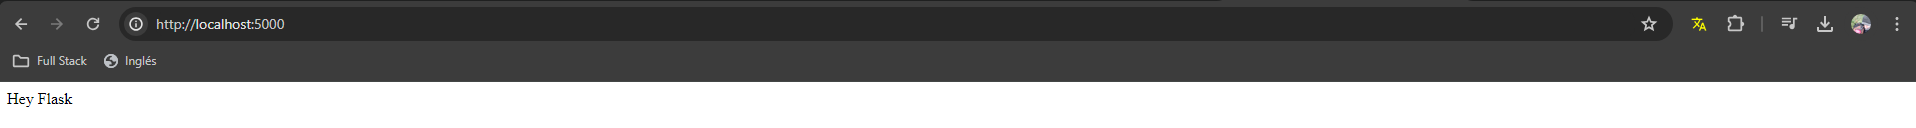
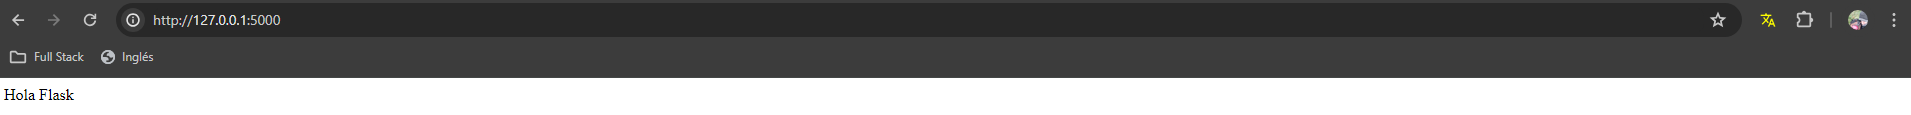
Mielma

diff --git a/Python/Api/03_Configuración_Flask.html b/Python/Api/03_Configuración_Flask.html
@@ -30,12 +30,15 @@
 <p>Crear la carpeta donde van a ir los proyectos
 <br>En el terminal
 <br>pipenv --python 3.7 (Crea Pipfile)
+<br>Courtesy Notice: Pipenv found itself running within a virtual environment, so it will automatically use that environment, instead of creating its own for any project. You can set PIPENV_IGNORE_VIRTUALENVS=1 to force pipenv to ignore that environment and create its own instead. You can set PIPENV_VERBOSITY=-1 to suppress this warning.
+Creating a Pipfile for this project...
+<br>ejecutar en consola: setx PIPENV_IGNORE_VIRTUALENVS 1 
 <br>pipenv install flask (Instala Flask en Pipfile)</p>
 <p>Crear archivo "app.py" desde Visual Studio Code
 <br>Editar el archivo
+<p>Crear ruta usando una herramienta que es se llama decorador, se usa comenzando con @</p>
 <br><img src="imagenes/hola flask función.png" alt="hola flask función"></p>
 
-<p>Crear ruta usando una herramienta que es se llama decorador, se usa comenzando con @</p>
 <p>Una vez editado el archivo, run y para finalizar la sesión del servidor CTRL+C
 <br><img src="imagenes/hola flask run.png" alt="hola flask run"></p>
 <p>Registro de depuración, dice que se está ejecutando en esta URL http://127.0.0.1:5000/ 

diff --git a/Python/Api/App/app.py b/Python/Api/App/app.py
@@ -1,0 +1,12 @@
+from flask import Flask # Agregar las dependencias instaladas, Diferencia mayúsculas de minúsculas
+
+app = Flask(__name__) # Crear variable, en este caso la más básica
+
+@app.route('/') # Crear la ruta de la variable @nombrevariable.route('directorio')
+def hola(): # Crear la función
+    return "Hola Flask" # Devuelve "mensaje"
+
+if __name__ == '__main__': # Condición si el nombre es igual al principal
+    app.run(debug=True)  #Ejecutar aplicación
+    
+    

diff --git a/Python/Api/App_Crear/app03Configuración.py b/Python/Api/App_Crear/app03Configuración.py
@@ -1,0 +1,12 @@
+from flask import Flask # Agregar las dependencias instaladas, Diferencia mayúsculas de minúsculas
+
+app = Flask(__name__) # Crear variable, en este caso la más básica
+
+@app.route('/') # Crear la ruta de la variable @nombrevariable.route('directorio')
+def hola(): # Crear la función
+    return "Hola Flask" # Devuelve "mensaje"
+
+if __name__ == '__main__': # Condición si el nombre es igual al principal
+    app.run(debug=True)  #Ejecutar aplicación
+    
+    
